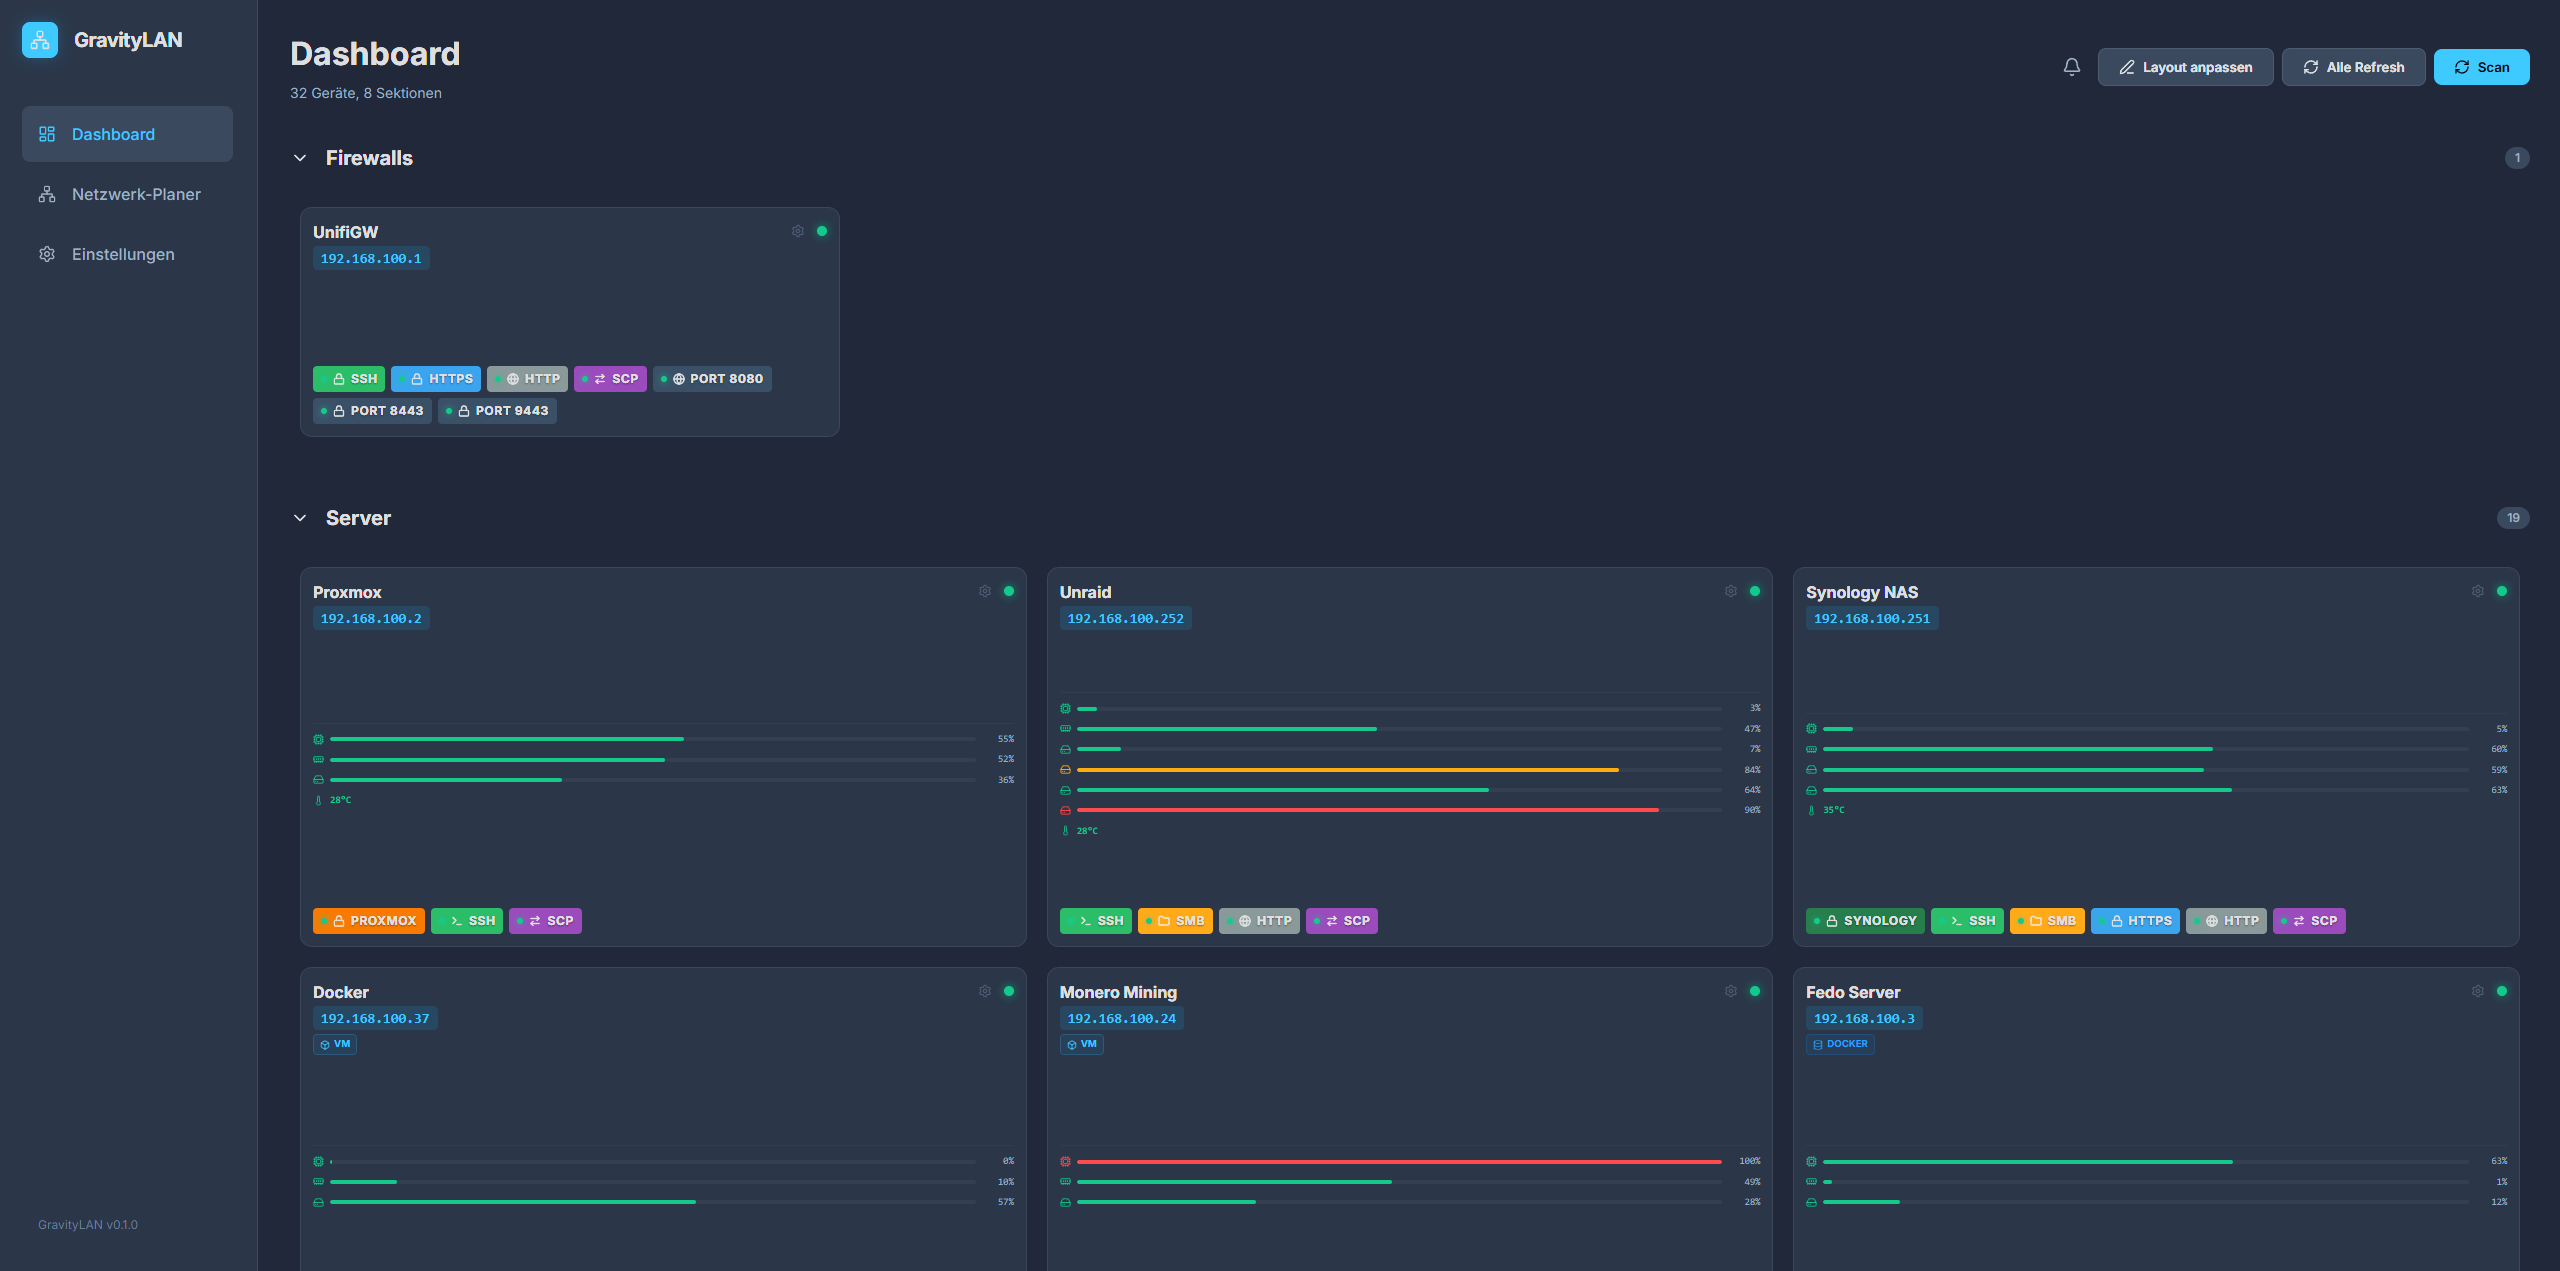
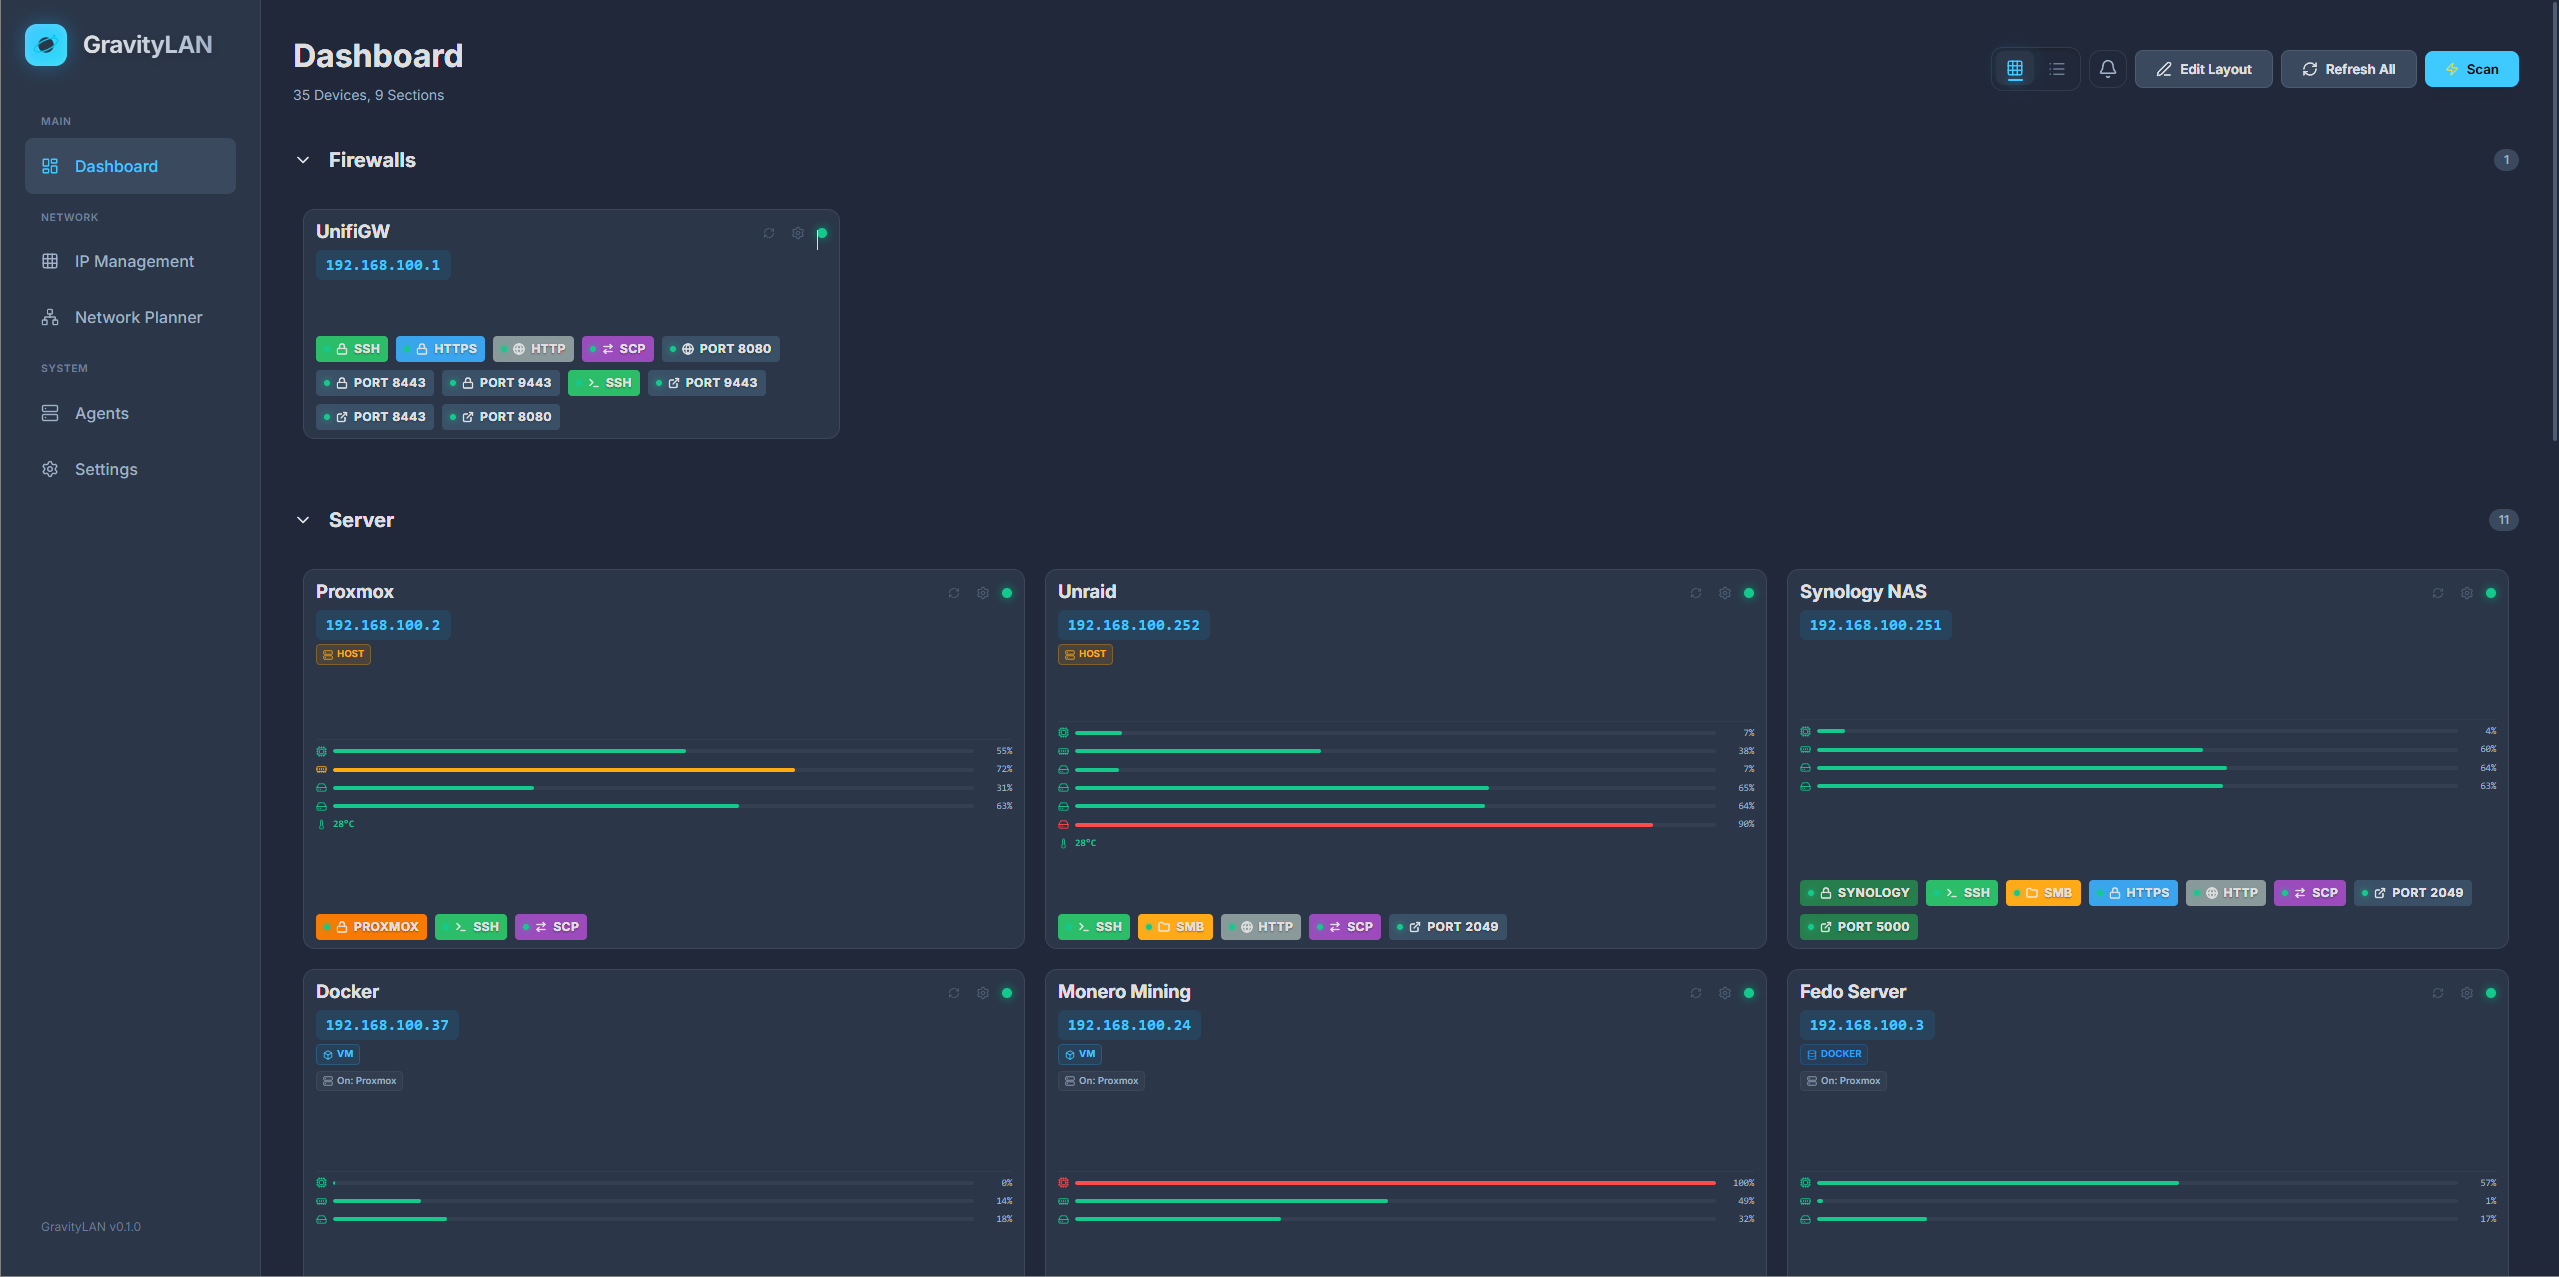
docs: update README screenshot gallery and screenshot assets

diff --git a/README.md b/README.md
@@ -96,9 +96,13 @@ flowchart TB
 
 ### Screenshots
 
-| Dashboard | Network planner | Device / agent |
-|-----------|-----------------|----------------|
-| ![Dashboard](./docs/screenshots/GravityLanDashboard.png) | ![Network](./docs/screenshots/GravityLanNetwork-Planer.png) | ![Device editor](./docs/screenshots/GravitryLanDeviceEditor.png) |
+| Dashboard | Network planner |
+|:---:|:---:|
+| ![Dashboard overview](./docs/screenshots/GravityLanDashboard.png) | ![Network planner — subnets & scan basis](./docs/screenshots/GravityLANNetzworkPlanner.png) |
+
+| Agents | Device editor |
+|:---:|:---:|
+| ![Linux agents — metrics & deploy](./docs/screenshots/GravityLANAgents.png) | ![Device details & services](./docs/screenshots/GravitryLanDeviceEditor.png) |
 
 ### Tech stack
 
@@ -262,9 +266,13 @@ flowchart TB
 
 ### Screenshots
 
-| Dashboard | Netzwerk-Planer | Gerät / Agent |
-|-----------|-----------------|---------------|
-| ![Dashboard](./docs/screenshots/GravityLanDashboard.png) | ![Network](./docs/screenshots/GravityLanNetwork-Planer.png) | ![Device editor](./docs/screenshots/GravitryLanDeviceEditor.png) |
+| Dashboard | Netzwerk-Planer |
+|:---:|:---:|
+| ![Dashboard-Übersicht](./docs/screenshots/GravityLanDashboard.png) | ![Netzwerk-Planer — Subnetze & Scan-Basis](./docs/screenshots/GravityLANNetzworkPlanner.png) |
+
+| Agents | Gerät-Editor |
+|:---:|:---:|
+| ![Linux-Agenten — Metriken & Deploy](./docs/screenshots/GravityLANAgents.png) | ![Gerätedetails & Dienste](./docs/screenshots/GravitryLanDeviceEditor.png) |
 
 ### Tech-Stack
 